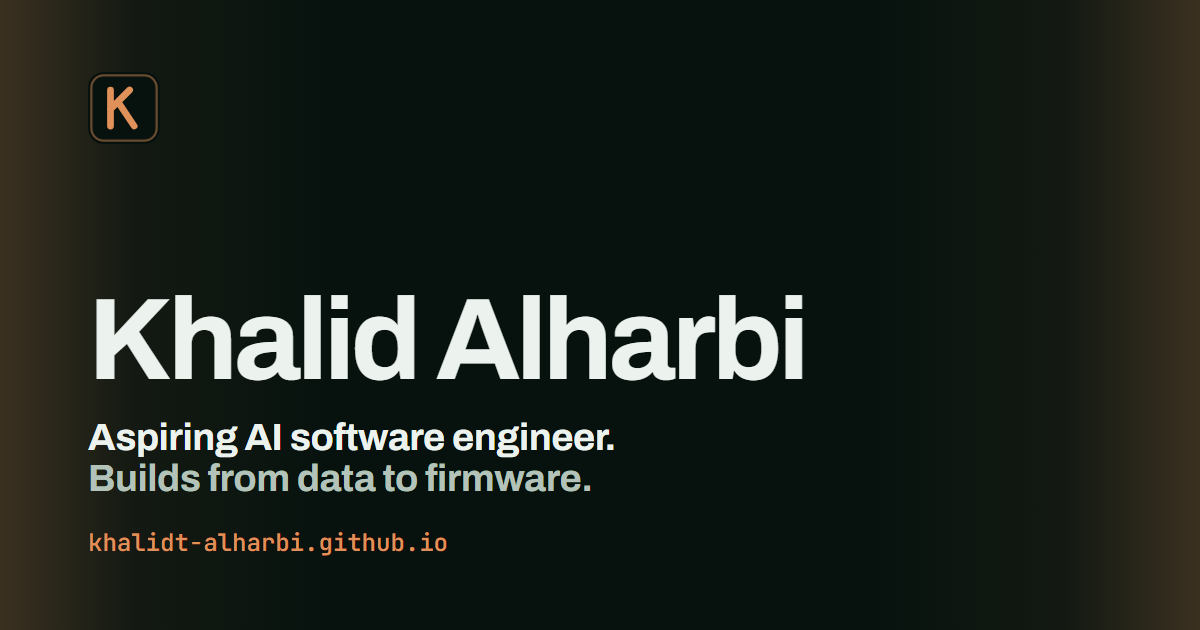
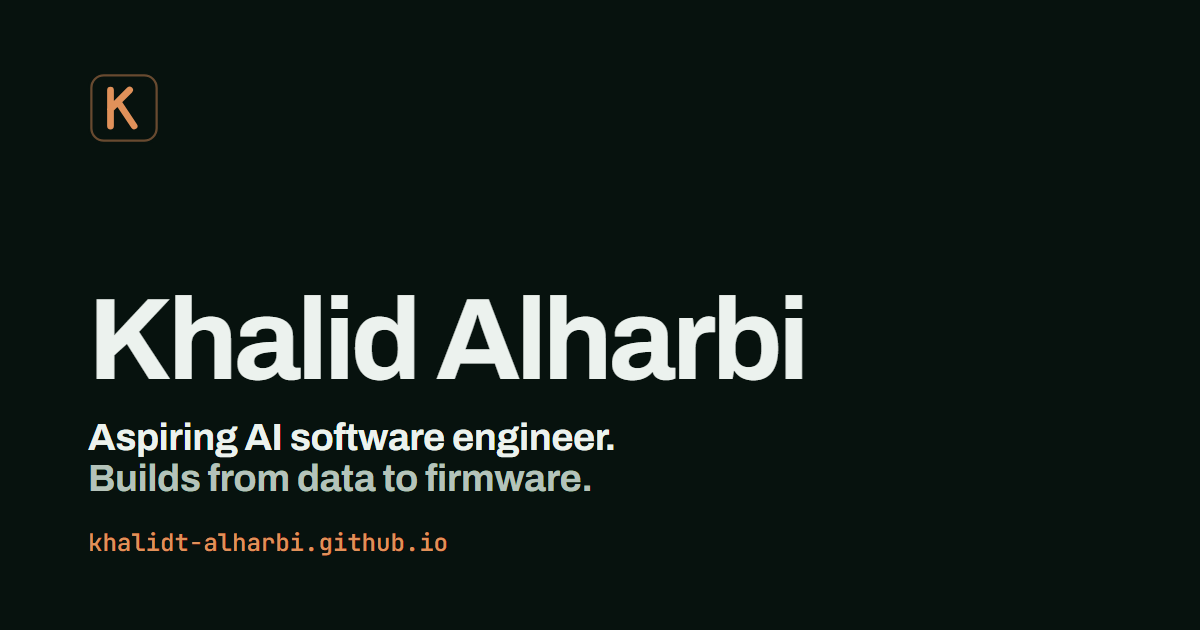
Remove decorative gradients and glows
Foreman Phase 2: spend boldness in one place. The animated project demo
is the page's one signature, so everything around it goes flat.

Removed the hero side glows, and made the tab thumb, demo panels,
section bands, drawn project art, education accent bars and contact
card solid colours. Photo cards swap their dark fade for a flat strip
behind the title. The primary button and tab thumb lose their coloured
glow shadows. The share image is re-rendered without its side glows.

Kept on purpose: the LED glow in the helmet diagram and the scanner and
PII highlights in the OnKith demo, which are the demo's own lights.

Changed region(s): [[0.925, 0.0, 1.0, 1.0], [0.0, 0.0, 0.0925, 1.0]]

diff --git a/styles.css b/styles.css
@@ -28,8 +28,8 @@
   --on-accent:     #07120E;
 
   --header-bg:     rgba(7, 18, 14, 0.74);
-  --panel-top:     #0B1812;
-  --panel-bottom:  #060F0B;
+  --panel:         #09150F;   /* demo panels */
+  --scrim:         rgba(5, 12, 9, 0.82);   /* flat strip behind text on photos */
   --media-bg:      #050D0A;
 
   --dg-shell:      #1A2C22;
@@ -79,8 +79,8 @@
   --on-accent:     #06101F;
 
   --header-bg:     rgba(7, 12, 21, 0.74);
-  --panel-top:     #0C1628;
-  --panel-bottom:  #060B15;
+  --panel:         #09111F;
+  --scrim:         rgba(4, 8, 15, 0.82);
   --media-bg:      #050A12;
 
   --dg-shell:      #182538;
@@ -244,23 +244,6 @@ section[id] { scroll-margin-top: calc(var(--header-h) + 1rem); }
   .hero-inner { grid-template-columns: 1fr 1fr; }
 }
 
-/* Signature: the side glow from HI-BSDS's own camera overlay,
-   where each edge of the video lights up when that blind spot has a target. */
-.hero::before,
-.hero::after {
-  content: "";
-  position: absolute;
-  inset-block: 0;
-  width: min(30%, 26rem);
-  pointer-events: none;
-  opacity: 0;
-  animation: glow-in 1.4s var(--ease) 0.25s forwards;
-}
-.hero::before { left: 0;  background: linear-gradient(to right, rgba(var(--accent-rgb), 0.20), rgba(var(--accent-rgb), 0.05) 40%, transparent); }
-.hero::after  { right: 0; background: linear-gradient(to left,  rgba(var(--accent-rgb), 0.20), rgba(var(--accent-rgb), 0.05) 40%, transparent); }
-
-@keyframes glow-in { to { opacity: 1; } }
-
 .hero-content { position: relative; z-index: 1; }
 
 .hero h1 {
@@ -313,7 +296,6 @@ section[id] { scroll-margin-top: calc(var(--header-h) + 1rem); }
 .btn-primary {
   background: var(--accent);
   color: var(--on-accent);
-  box-shadow: 0 10px 28px -12px rgba(var(--accent-rgb), 0.7);
 }
 .btn-primary:hover { background: var(--accent-hover); }
 
@@ -353,8 +335,8 @@ section[id] { scroll-margin-top: calc(var(--header-h) + 1rem); }
   border-radius: 999px;
   overflow: hidden;
   pointer-events: none;
-  background: linear-gradient(180deg, rgba(var(--accent-rgb), 0.24), rgba(var(--accent-rgb), 0.12));
-  box-shadow: inset 0 0 0 1px rgba(var(--accent-rgb), 0.38), 0 8px 22px -10px rgba(var(--accent-rgb), 0.6);
+  background: rgba(var(--accent-rgb), 0.16);
+  box-shadow: inset 0 0 0 1px rgba(var(--accent-rgb), 0.38);
 }
 .tabs.is-ready .tab-thumb {
   transition: transform 0.55s var(--ease-out), width 0.55s var(--ease-out);
@@ -445,9 +427,7 @@ section[id] { scroll-margin-top: calc(var(--header-h) + 1rem); }
   display: flex;
   flex-direction: column;
   justify-content: center;
-  background:
-    radial-gradient(120% 70% at 50% 0%, rgba(var(--accent-rgb), 0.08), transparent 62%),
-    linear-gradient(180deg, var(--panel-top), var(--panel-bottom));
+  background: var(--panel);
   border: 1px solid var(--line);
   border-radius: 16px;
   overflow: hidden;
@@ -646,9 +626,7 @@ section[id] { scroll-margin-top: calc(var(--header-h) + 1rem); }
 }
 .section--band {
   --card: var(--surface-band);
-  background:
-    linear-gradient(180deg, rgba(var(--tint), 0.025), transparent 40%),
-    var(--band);
+  background: var(--band);
   border-block: 1px solid var(--line);
 }
 
@@ -734,26 +712,23 @@ section[id] { scroll-margin-top: calc(var(--header-h) + 1rem); }
   transition: transform 0.8s var(--ease-out);
 }
 .project:hover .project-media img { transform: scale(1.04); }
-.project-media::after {
-  content: "";
-  position: absolute;
-  inset: 0;
-  background: linear-gradient(180deg, rgba(0, 0, 0, 0.05) 30%, rgba(0, 0, 0, 0.55) 62%, rgba(0, 0, 0, 0.88));
-  pointer-events: none;
-}
-
+/* Title and role sit on a flat strip along the bottom of the picture */
 .project-overlay {
   position: absolute;
-  inset-inline: 1.25rem;
-  bottom: 1.1rem;
+  inset-inline: 0;
+  bottom: 0;
   z-index: 2;
+  padding: 0.85rem 1.25rem 0.95rem;
+  background: var(--scrim);
+  -webkit-backdrop-filter: blur(6px);
+  backdrop-filter: blur(6px);
+  border-top: 1px solid var(--line);
   color: #F5F7F6;
 }
 .project-overlay h3 {
   font-size: clamp(1.25rem, 2vw, 1.5rem);
   font-weight: 700;
-  margin-bottom: 0.3rem;
-  text-shadow: 0 2px 12px rgba(0, 0, 0, 0.5);
+  margin-bottom: 0.25rem;
 }
 
 /* Every project opens with the role, before anything else */
@@ -813,10 +788,7 @@ section[id] { scroll-margin-top: calc(var(--header-h) + 1rem); }
   inset: 0;
   display: grid;
   place-items: center;
-  background:
-    radial-gradient(60% 70% at 30% 30%, rgba(var(--accent-rgb), 0.22), transparent 70%),
-    radial-gradient(60% 70% at 80% 80%, rgba(90, 170, 255, 0.16), transparent 70%),
-    var(--media-bg);
+  background: var(--media-bg);
 }
 .media-art svg { width: 38%; max-width: 180px; height: auto; color: rgba(var(--tint), 0.55); }
 
@@ -928,7 +900,7 @@ section[id] { scroll-margin-top: calc(var(--header-h) + 1rem); }
   inset-block: 0;
   inset-inline-start: 0;
   width: 3px;
-  background: linear-gradient(180deg, var(--accent), rgba(var(--accent-rgb), 0.1));
+  background: var(--accent);
 }
 .edu-card .when {
   font-family: var(--font-mono);
@@ -958,9 +930,7 @@ section[id] { scroll-margin-top: calc(var(--header-h) + 1rem); }
   display: grid;
   gap: 1.75rem;
   padding: clamp(1.6rem, 4vw, 2.75rem);
-  background:
-    radial-gradient(80% 120% at 100% 0%, rgba(var(--accent-rgb), 0.12), transparent 60%),
-    var(--card);
+  background: var(--card);
 }
 .contact-kicker {
   font-size: clamp(1.125rem, 2.2vw, 1.4375rem);
@@ -1047,7 +1017,6 @@ section[id] { scroll-margin-top: calc(var(--header-h) + 1rem); }
     animation: none !important;
     transition-duration: 0.01ms !important;
   }
-  .hero::before, .hero::after { opacity: 1; }
   .btn:hover, .project:hover, .contact-links a:hover { transform: none; }
   .project:hover .project-media img { transform: none; }
 
